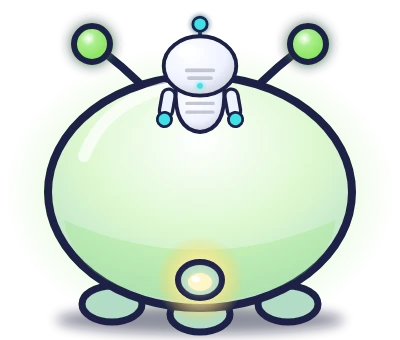
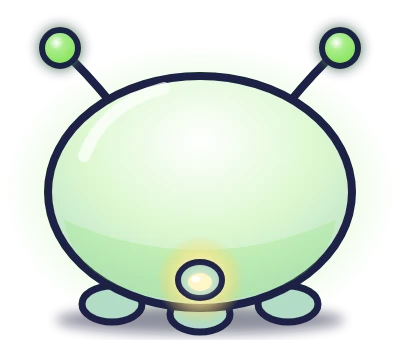
WIP: rider layers (MLS + Nebula), race rivals
Claude-Session: https://claude.ai/code/session_011bftBeXudnSzAMBxDFXhpR

Changed region(s): [[0.39, 0.0294, 0.63, 0.4118], [0.63, 0.0294, 0.93, 0.2941], [0.06, 0.0294, 0.36, 0.2941]]

diff --git a/game.config.js b/game.config.js
@@ -143,6 +143,8 @@ window.GAME = {
       critter_back_rose: { path: "assets/img/critter_back_rose.webp", res: 2 }, critter_back_amber: { path: "assets/img/critter_back_amber.webp", res: 2 },
       critter_back_aqua: { path: "assets/img/critter_back_aqua.webp", res: 2 }, critter_back_lime: { path: "assets/img/critter_back_lime.webp", res: 2 },
       critter_back_violet: { path: "assets/img/critter_back_violet.webp", res: 2 },
+      // race: the keeper robot seen from behind, drawn over the critter (character.raceRider)
+      rider_back_aqua: { path: "assets/img/rider_back_aqua.webp", res: 2 }, rider_back_amber: { path: "assets/img/rider_back_amber.webp", res: 2 },
       dust: "assets/img/dust.webp", dust_b: "assets/img/dust_b.webp", cloth: "assets/img/cloth.webp",
       want_dust: { path: "assets/img/want_dust.webp", res: 2 },
       // per-variant close-up backdrops (+ the happy "after" version revealed when clean)
@@ -188,8 +190,8 @@ window.GAME = {
     shadow: { w: 40, h: 12 },
   },
   characters: [
-    { id: "aqua", name: "Bolt", sheet: "keeper", rideSheet: "keeper_ride", thumb: "assets/ui/keeper_thumb.webp" },
-    { id: "amber", name: "Sol", sheet: "keeper_amber", rideSheet: "keeper_amber_ride", thumb: "assets/ui/keeper_amber_thumb.webp" },
+    { id: "aqua", name: "Bolt", sheet: "keeper", rideSheet: "keeper_ride", raceRider: "rider_back_aqua", thumb: "assets/ui/keeper_thumb.webp" },
+    { id: "amber", name: "Sol", sheet: "keeper_amber", rideSheet: "keeper_amber_ride", raceRider: "rider_back_amber", thumb: "assets/ui/keeper_amber_thumb.webp" },
   ],
 
   /* ---- Creature system (3 needs, 3 actions, variants, aging) ---- */
